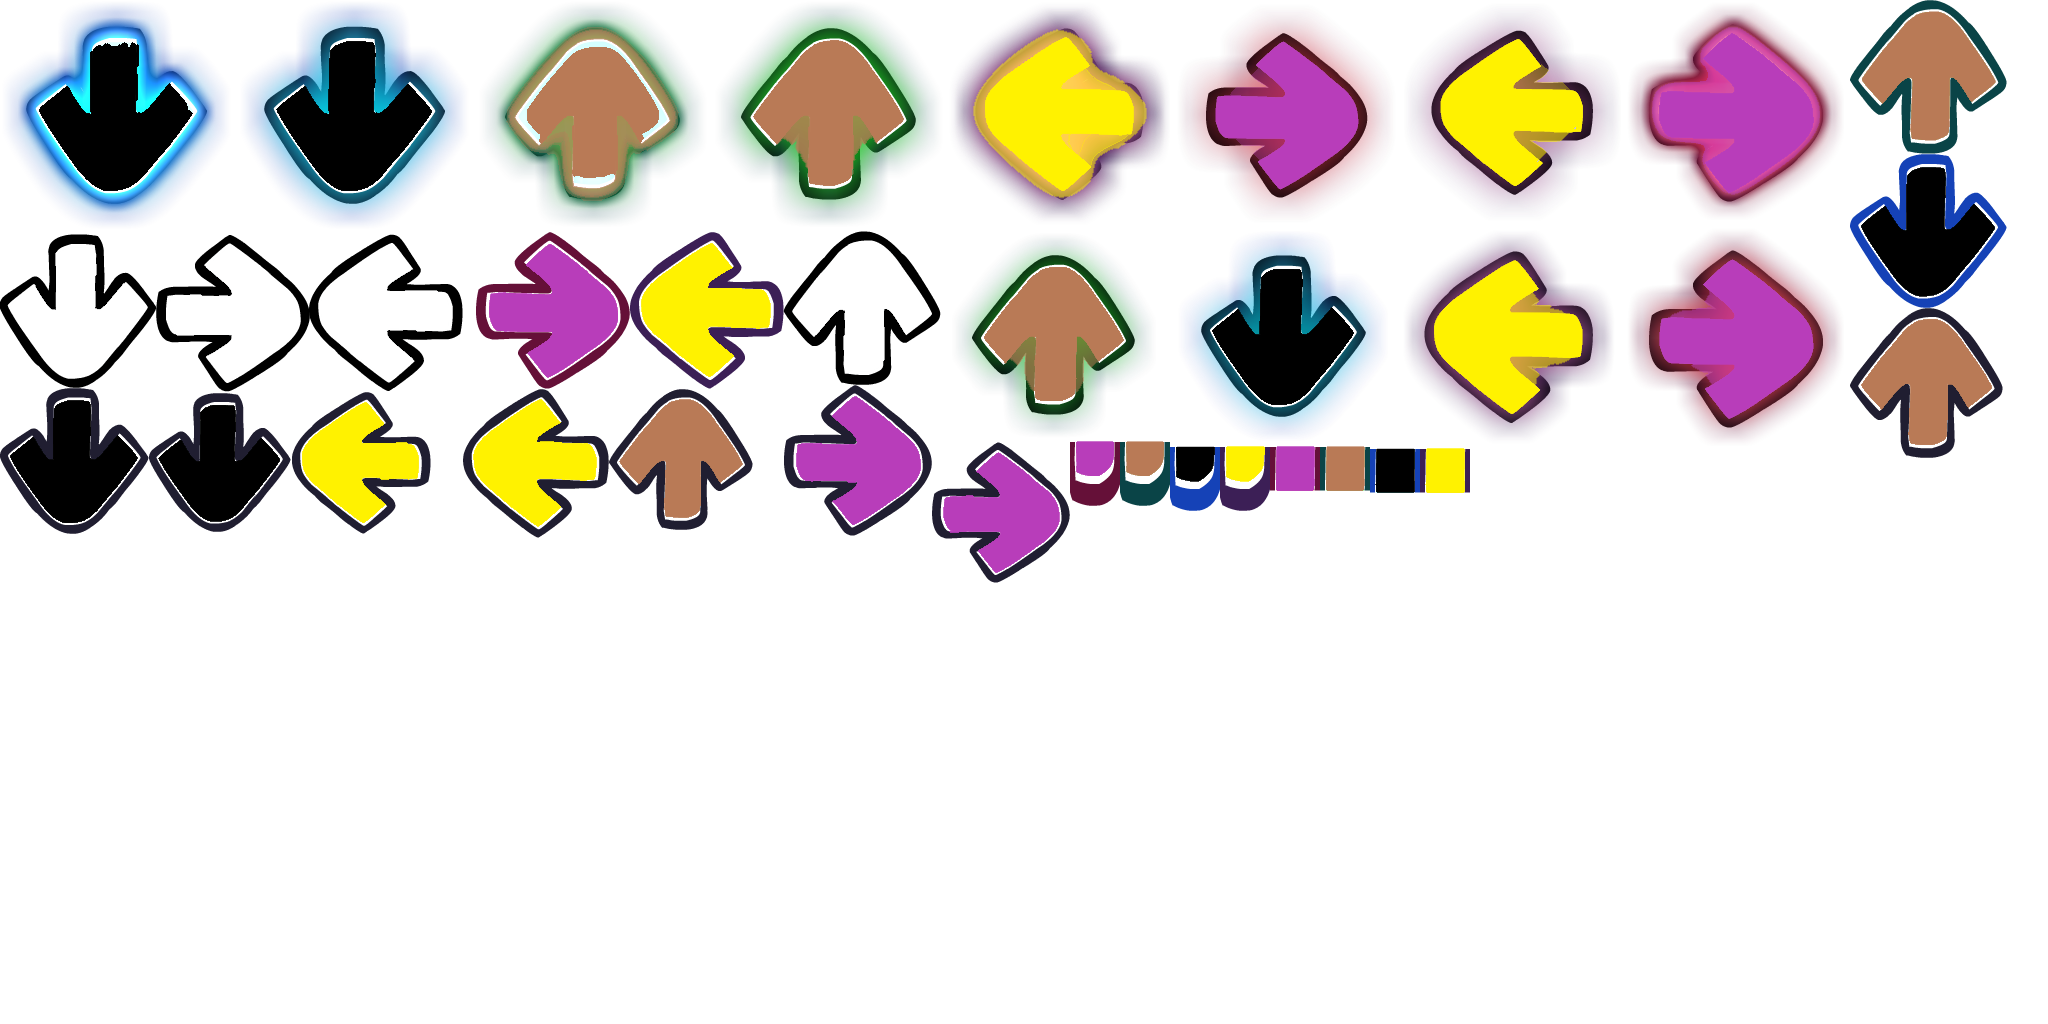
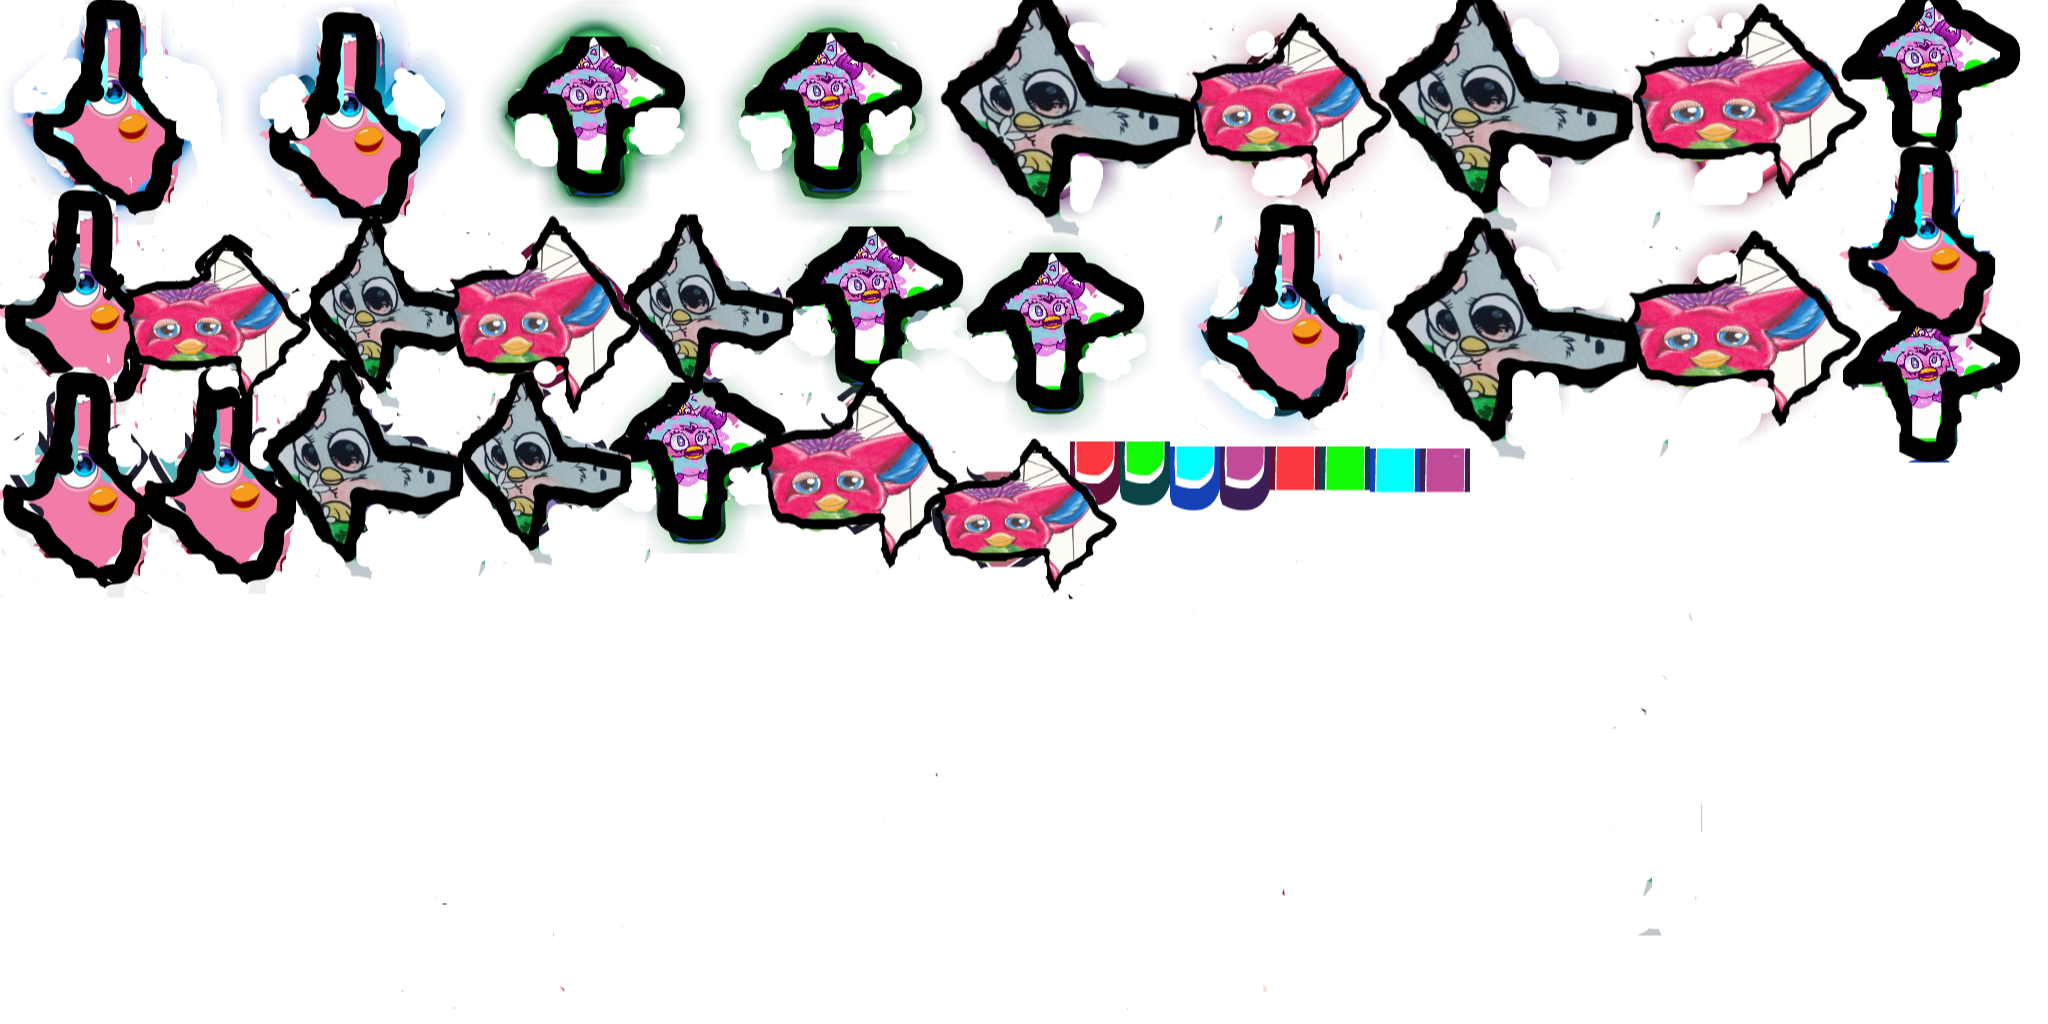
arrows, pico and title

Changed region(s): [[0.0, 0.0, 1.0, 0.5938]]

diff --git a/docs/index.html b/docs/index.html
@@ -24,7 +24,7 @@
 	</header>
 
 	
-	<marquee width="1920" scrollamount="2" scrolldelay="10" truespeed="truespeed">Friday Night Funkin</marquee>
+	<marquee width="1920" scrollamount="2" scrolldelay="10" truespeed="truespeed">Furby Night Funkin</marquee>
 	<!--Hot tortilla wrap-->
 	<div id="wrapper">
 		<h1>Furby Night Funkin' - Rhythm game extraordinaire</h1>
